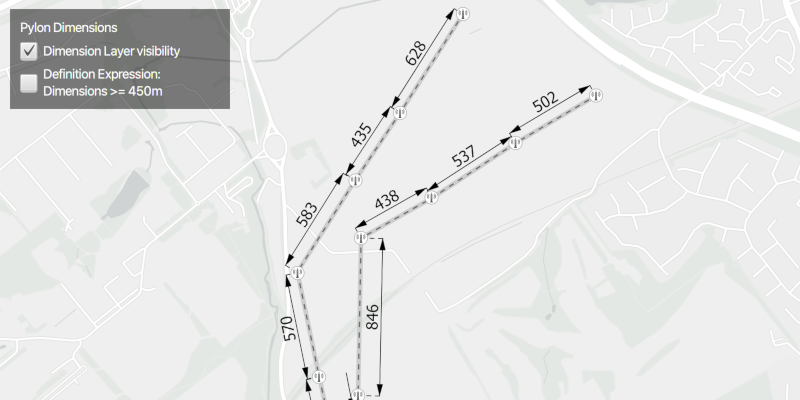
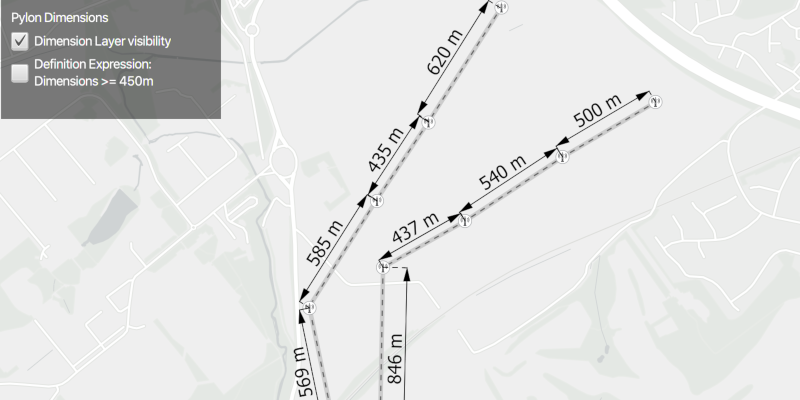
update image for display dimensions

diff --git a/display_information/display-dimensions/src/main/java/com/esri/samples/display_dimensions/DisplayDimensionsSample.java b/display_information/display-dimensions/src/main/java/com/esri/samples/display_dimensions/DisplayDimensionsSample.java
@@ -20,7 +20,6 @@ import com.esri.arcgisruntime.layers.DimensionLayer;
 import com.esri.arcgisruntime.layers.Layer;
 import com.esri.arcgisruntime.loadable.LoadStatus;
 import com.esri.arcgisruntime.mapping.MobileMapPackage;
-import com.esri.arcgisruntime.mapping.Viewpoint;
 import com.esri.arcgisruntime.mapping.view.MapView;
 import javafx.application.Application;
 import javafx.geometry.Insets;
@@ -87,7 +86,6 @@ public class DisplayDimensionsSample extends Application {
           // add the map from the mobile map package to the map view, and set a min scale to maintain dimension readability
           mapView.setMap(mobileMapPackage.getMaps().get(0));
           mapView.getMap().setMinScale(35000);
-          mapView.setViewpoint(new Viewpoint(55.908, -3.305, 20310));
 
           // find the dimension layer within the map
           for (Layer layer : mapView.getMap().getOperationalLayers()) {
